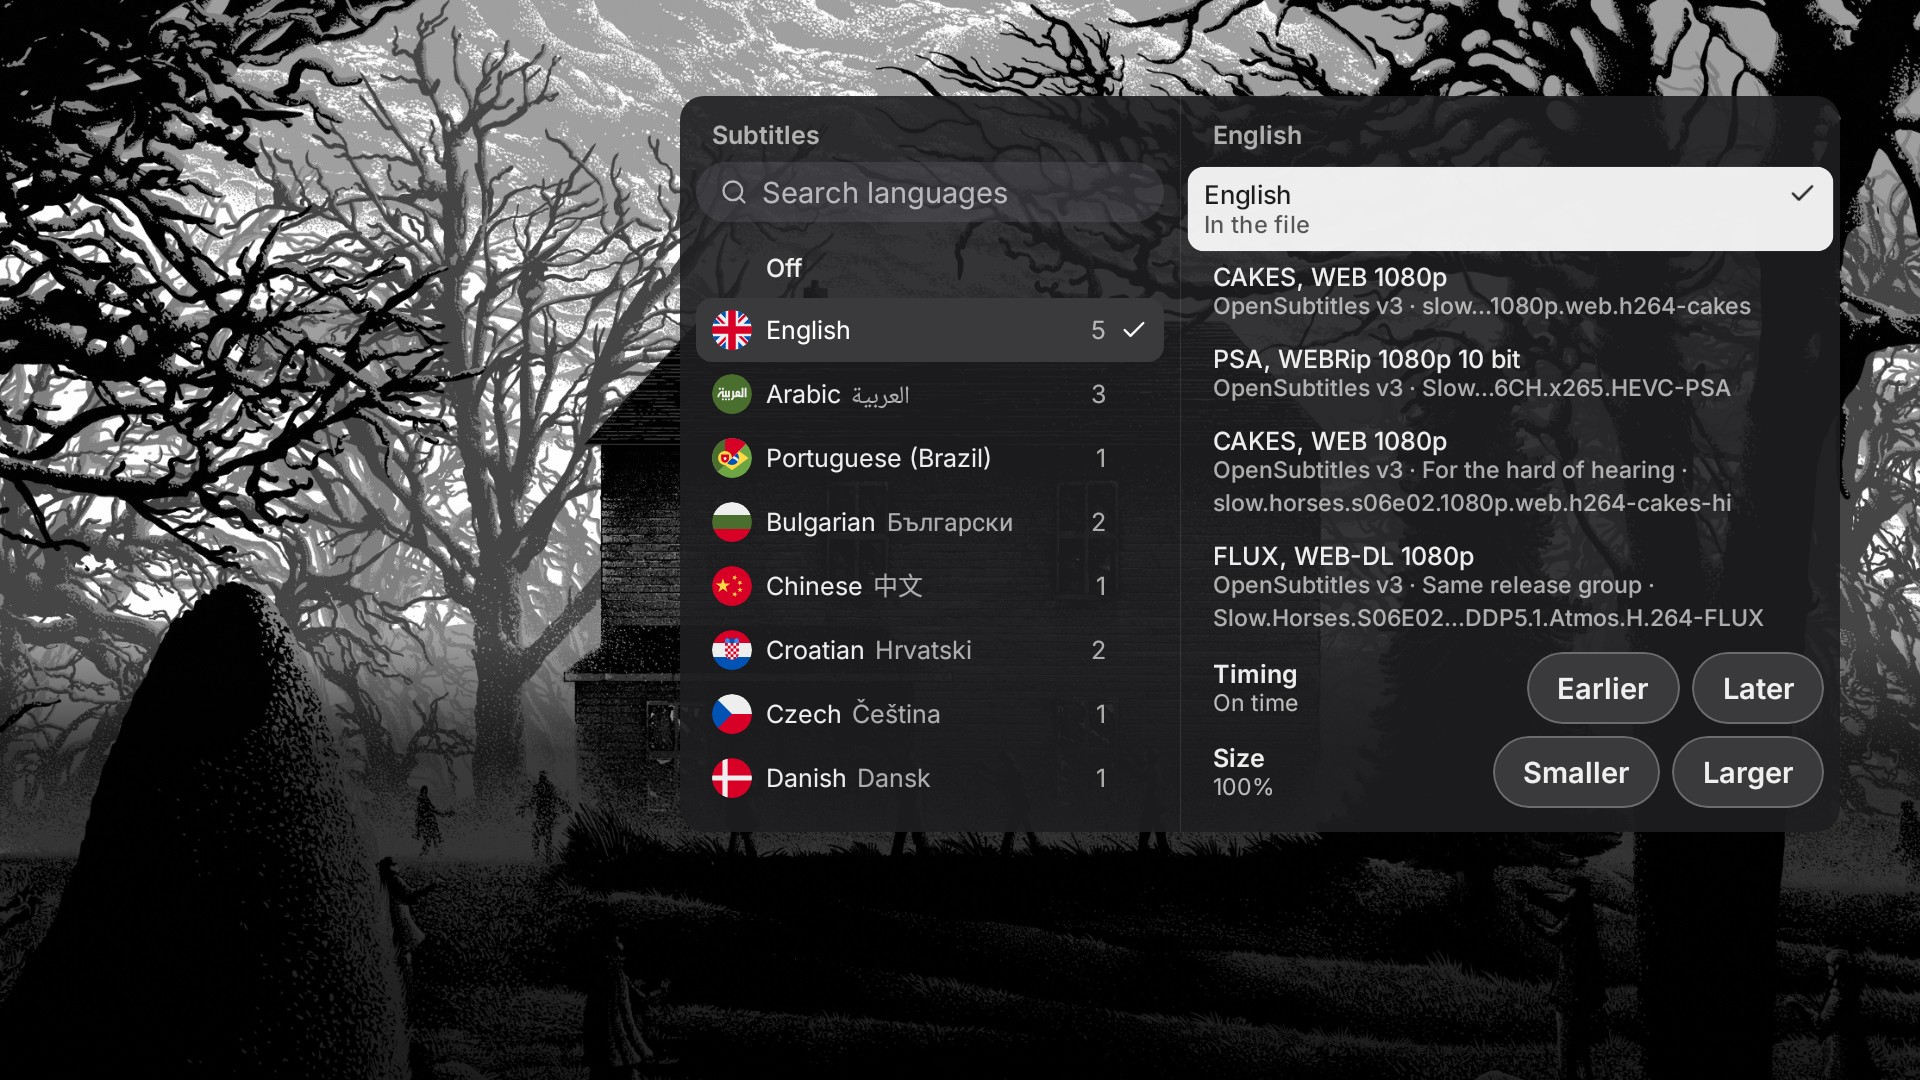
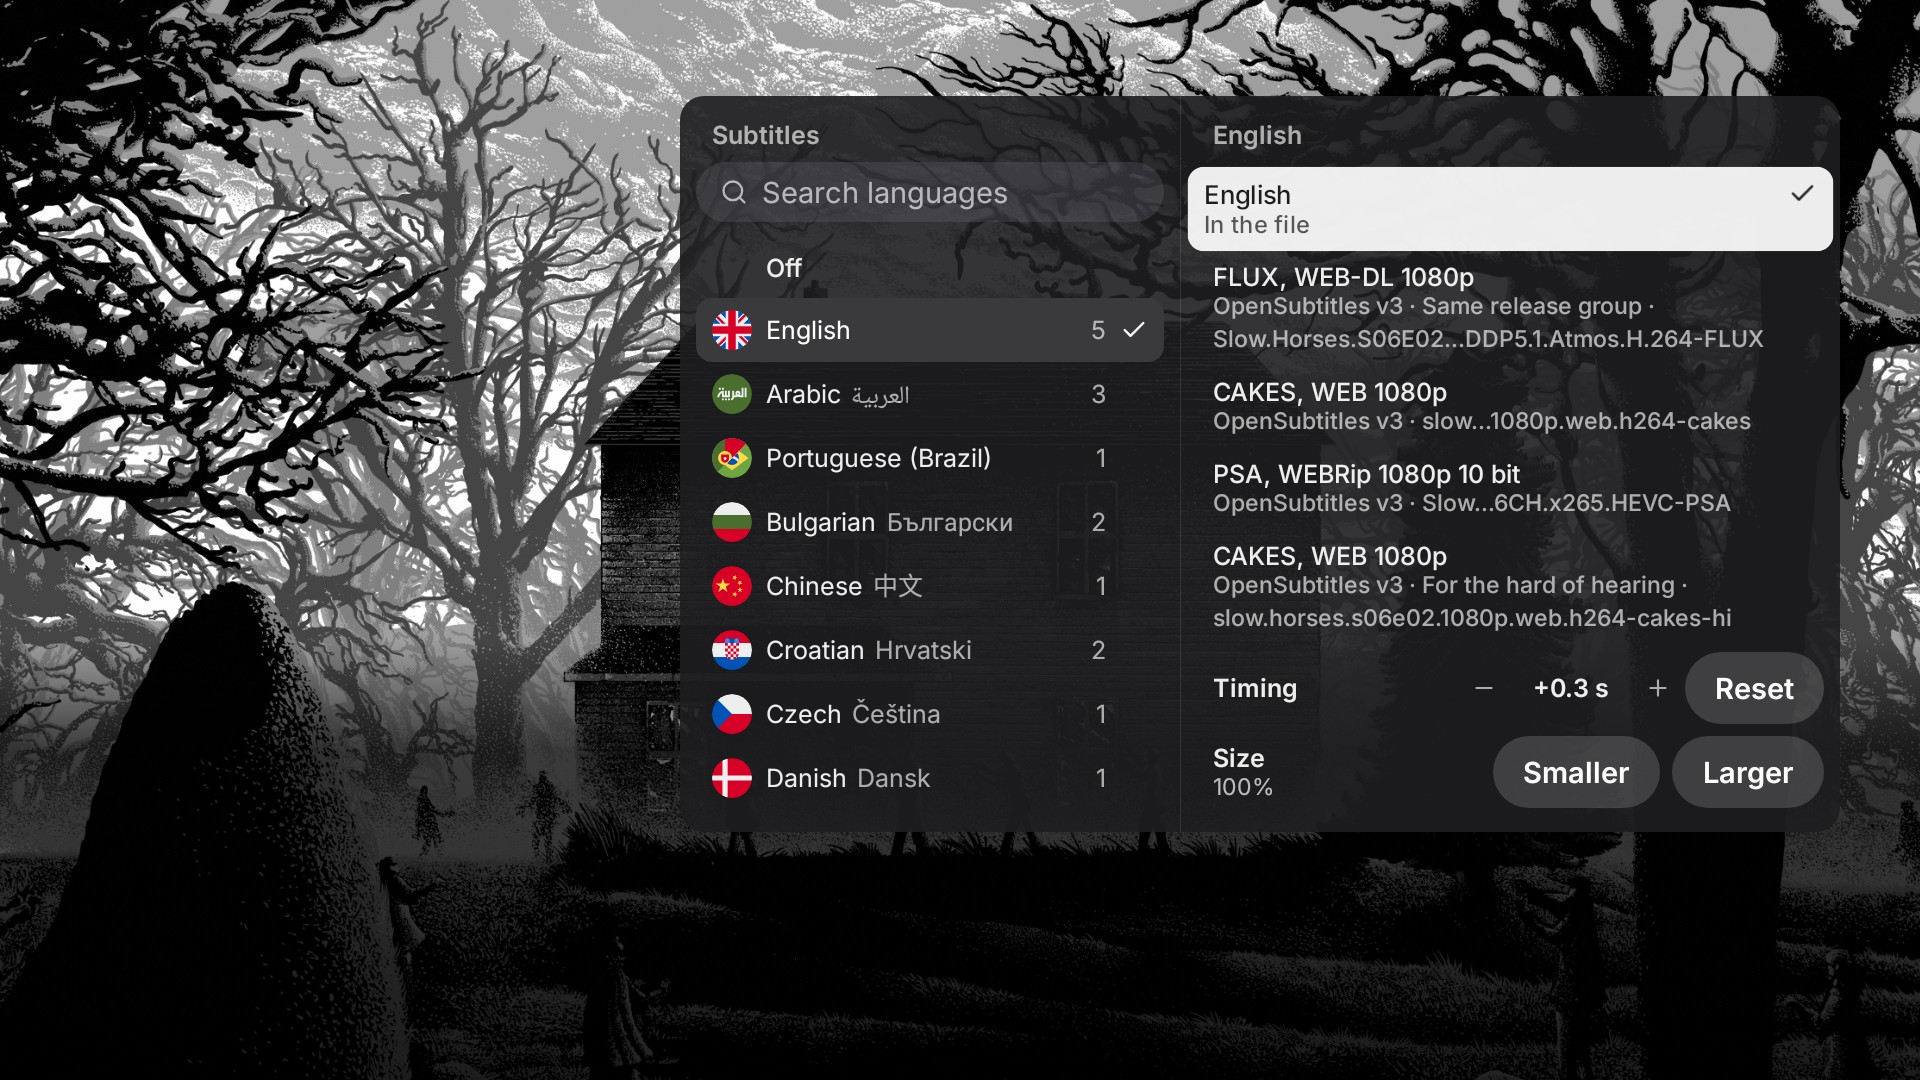
chore(bench): Android picker shots in the core's track order
The shot fixtures list English as the core does: the release that fits
the playing group (FLUX) first, then the rest; the picker puts the
file's own track above them. The options shots show the stepper at
+0.3 s with Reset. The phone loading shot inside the player picks up
the v3 Back button.

Changed region(s): [[0.625, 0.2444, 0.9375, 0.6722], [0.625, 0.6111, 0.6875, 0.6722]]

diff --git a/apps/android/ui-phone/src/test/kotlin/app/marquee/ui/phone/PlayerShotsTest.kt b/apps/android/ui-phone/src/test/kotlin/app/marquee/ui/phone/PlayerShotsTest.kt
@@ -191,13 +191,16 @@ class PlayerShotsTest {
                     .widthIn(max = 420.dp)
                     .fillMaxWidth()
                     .fillMaxHeight(),
-                timing = 0L.takeIf { opened != null },
+                timing = 300L.takeIf { opened != null },
             )
         }
     }
 }
 
-/** A title's subtitles as the controller lists them: Slow Horses S6:E2 from OpenSubtitles, and the file's English. */
+/**
+ * A title's subtitles as the controller lists them: Slow Horses S6:E2 from OpenSubtitles in the core's order (the
+ * release that fits the playing group first), and the file's English.
+ */
 internal object ShotRows {
     private fun lang(
         code: String,
@@ -225,6 +228,15 @@ internal object ShotRows {
         listOf(TrackChoice("off", "Off")) +
             listOf(
                 TrackChoice(
+                    "late:en4",
+                    "FLUX, WEB-DL 1080p",
+                    "OpenSubtitles v3",
+                    section = "English",
+                    language = "en",
+                    fits = true,
+                    release = "Slow.Horses.S06E02.Daddy.Issues.1080p.ATVP.WEB-DL.DDP5.1.Atmos.H.264-FLUX",
+                ),
+                TrackChoice(
                     "late:en1",
                     "CAKES, WEB 1080p",
                     "OpenSubtitles v3",
@@ -247,15 +259,6 @@ internal object ShotRows {
                     section = "English",
                     language = "en",
                     release = "slow.horses.s06e02.1080p.web.h264-cakes-hi",
-                ),
-                TrackChoice(
-                    "late:en4",
-                    "FLUX, WEB-DL 1080p",
-                    "OpenSubtitles v3",
-                    section = "English",
-                    language = "en",
-                    fits = true,
-                    release = "Slow.Horses.S06E02.Daddy.Issues.1080p.ATVP.WEB-DL.DDP5.1.Atmos.H.264-FLUX",
                 ),
             ) +
             lang("ar", "Arabic", "العربية", 3) +

diff --git a/apps/android/ui-tv/src/test/kotlin/app/marquee/ui/tv/PlayerShotsTest.kt b/apps/android/ui-tv/src/test/kotlin/app/marquee/ui/tv/PlayerShotsTest.kt
@@ -185,7 +185,7 @@ class PlayerShotsTest {
                     rows,
                     {},
                     Modifier.align(Alignment.TopEnd).padding(end = 80.dp, top = 96.dp),
-                    timing = 0L,
+                    timing = 300L,
                 )
             }
         }
@@ -219,10 +219,22 @@ class PlayerShotsTest {
         )
     }
 
-    /** Slow Horses S6:E2 from OpenSubtitles and the file's English, as the controller lists them. */
+    /**
+     * Slow Horses S6:E2 from OpenSubtitles in the core's order (the release that fits the playing group first) and the
+     * file's English, as the controller lists them.
+     */
     private val rows =
         listOf(TrackChoice("off", "Off")) +
             listOf(
+                TrackChoice(
+                    "late:en4",
+                    "FLUX, WEB-DL 1080p",
+                    "OpenSubtitles v3",
+                    section = "English",
+                    language = "en",
+                    fits = true,
+                    release = "Slow.Horses.S06E02.Daddy.Issues.1080p.ATVP.WEB-DL.DDP5.1.Atmos.H.264-FLUX",
+                ),
                 TrackChoice(
                     "late:en1",
                     "CAKES, WEB 1080p",
@@ -246,15 +258,6 @@ class PlayerShotsTest {
                     section = "English",
                     language = "en",
                     release = "slow.horses.s06e02.1080p.web.h264-cakes-hi",
-                ),
-                TrackChoice(
-                    "late:en4",
-                    "FLUX, WEB-DL 1080p",
-                    "OpenSubtitles v3",
-                    section = "English",
-                    language = "en",
-                    fits = true,
-                    release = "Slow.Horses.S06E02.Daddy.Issues.1080p.ATVP.WEB-DL.DDP5.1.Atmos.H.264-FLUX",
                 ),
             ) +
             lang("ar", "Arabic", "العربية", 3) +
